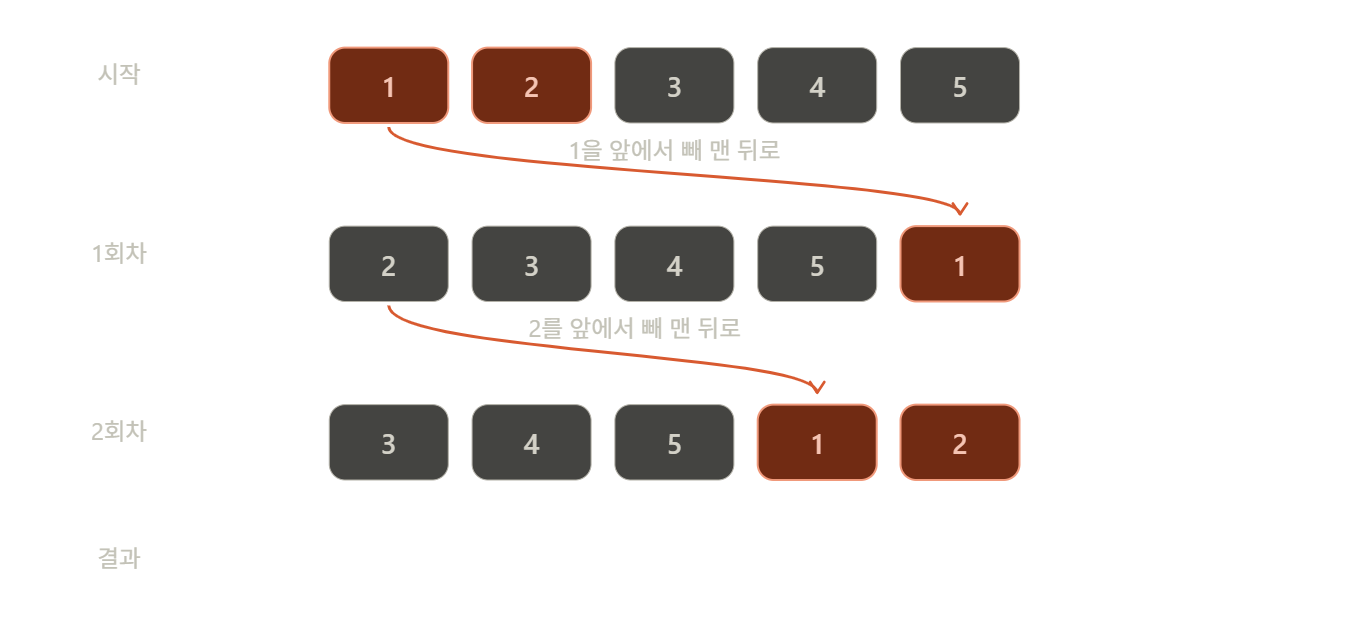
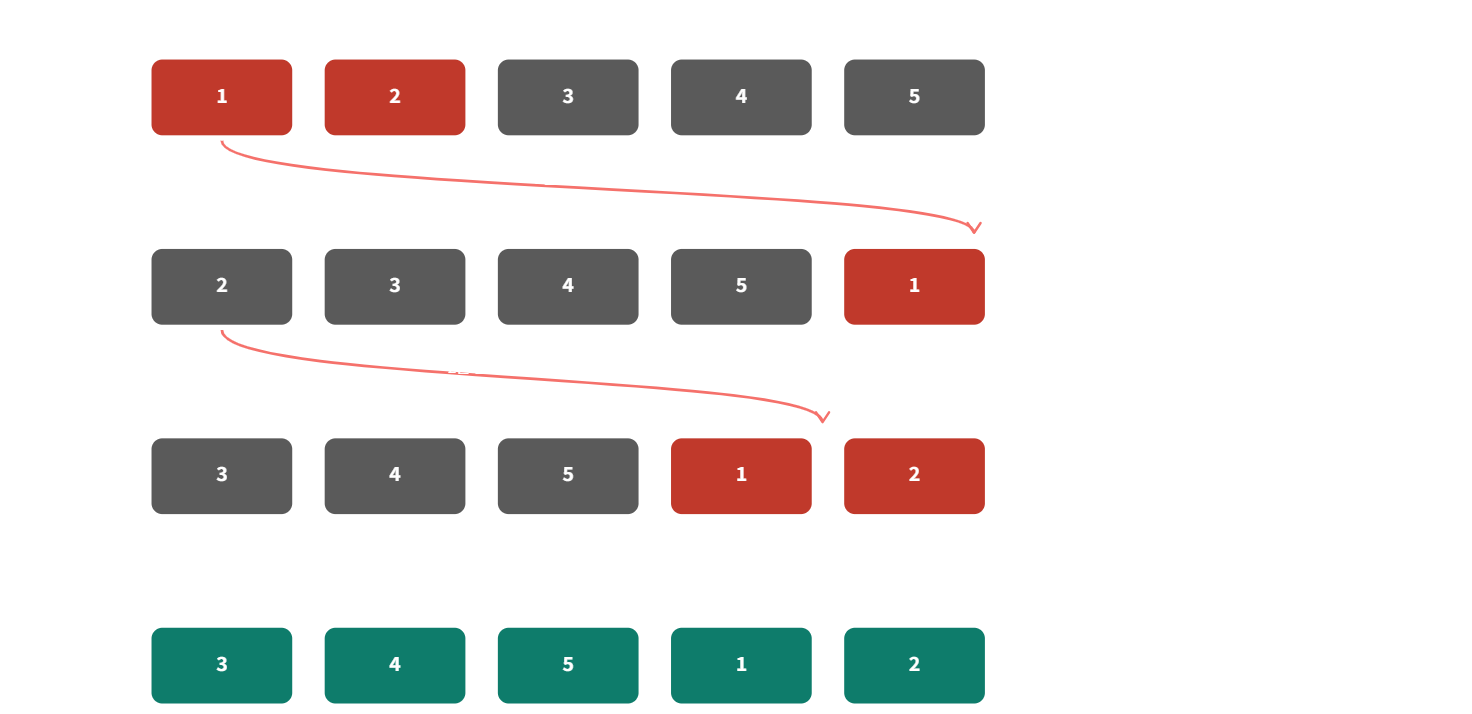
update_post

Changed region(s): [[0.0623, 0.0599, 0.7789, 0.7792], [0.0623, 0.8691, 0.6855, 0.989]]

diff --git a/_posts/MIT6006/2026-07-07-mit6006-lecture-03.md b/_posts/MIT6006/2026-07-07-mit6006-lecture-03.md
@@ -12,22 +12,27 @@ toc: true
 - 정답 자체보다 "어떻게 접근하고, 왜 그렇게 접근하는가"가 핵심이다.
 - 다루는 주제는 복잡도 감각 잡기, 블랙박스로 시퀀스 연산 구현하기, 덱(deque) 설계, 연결 리스트 뒤집기다.
 
+[한 줄 정리]
+
+- 1 : 복잡도 서열(로그 < 다항식 < 지수 < 팩토리얼)을 감으로 익히고, 공통 인수를 빼내 비교한다.
+- 2 : 주어진 연산만으로 상위 기능을 조립하고, 재귀로 문제를 한 단계씩 줄여나간다.
+- 3 : 두 자료구조의 장점을 합치되, 상환 분석으로 효율을 지킨다.
+- 4 : 제자리 포인터 조작(3-포인터 뒤집기)으로 연결 리스트를 다룬다.
+- 관통 메시지 : 문제를 작은 단위로 쪼개고, 각 조각의 정확성과 비용을 따로 논증하라.
+
 ## 1. 함수 증가율 순서 정렬
 
-- 증가율 서열은 로그 < 다항식 < 지수 < 팩토리얼 순이다.
-  - 로그는 입력이 커져도 거의 자라지 않고, 지수·팩토리얼은 입력이 조금만 커져도 폭발적으로 증가한다.
-- 증가 속도가 같은 함수끼리는 `{ }`로 묶어서 표기한다 (예: `n`과 `n+√n`은 둘 다 Θ(n)).
-- 공통 인수를 빼내 단순화하면 증가율 비교가 훨씬 쉬워진다 (예: `n·log n` vs `n·√n` → `log n` vs `√n` → 앞쪽이 느림).
+- 증가율 서열은 상수 < log n < 다항식(n, n²) < 지수(2ⁿ) < 팩토리얼(n!) 순으로 커진다.
+- 두 함수가 같은 속도로 자랄 때는 하나의 그룹으로 묶어 표기한다.
+- 복잡해 보이는 함수도 공통 인수를 빼내면 증가율을 쉽게 비교할 수 있다 (예: `n·log n` vs `n·√n` → `log n` vs `√n` → 앞쪽이 느림).
 
-| **입력 n** | **log₂n** | **n** | **n²**    | **2ⁿ** |
-| -------- | --------- | ----- | --------- | ------ |
-| **10**       | 약 3       | 10    | 100       | 1,024  |
-| **100**      | 약 7       | 100   | 10,000    | 약 10³⁰ |
-| **1,000**    | 약 10      | 1,000 | 1,000,000 | 천문학적   |
+| 입력 n | log₂n | n | n² | 2ⁿ | n! |
+|---|---|---|---|---|---|
+| 10 | 약 3 | 10 | 100 | 1,024 | 3,628,800 (약 360만) |
+| 100 | 약 7 | 100 | 10,000 | 약 10³⁰ | 약 10¹⁵⁸ |
+| 1,000 | 약 10 | 1,000 | 1,000,000 | 천문학적 | 상상 불가 |
 
-### 1-1. 정렬 규칙: 같은 속도는 묶는다
-
-- 두 함수의 증가 속도가 같다면 하나의 그룹 `{ }`로 표기한다.
+- 두 함수가 같은 속도면 하나의 그룹 `{ }`로 묶어 표기한다.
 
 ```text
 Q. n, √n, n+√n 세 개를 정렬하면?
@@ -36,7 +41,7 @@ Q. n, √n, n+√n 세 개를 정렬하면?
     - 결과: √n < {n, n+√n}
 ```
 
-### 1-2. 실전 접근법: 공통 인수 빼내기
+- 공통 인수 빼내기
 
 ```text
 Q. n·log n 과 n·√n 중 뭐가 빠를까?
@@ -47,10 +52,10 @@ Q. n·log n 과 n·√n 중 뭐가 빠를까?
 
 ## 2. 시퀀스 연산을 블랙박스로 구현
 
-- 블랙박스 방식은 외부에 공개된 연산(`insert/delete_first/last`, 모두 O(1))만 사용해서 상위 기능을 조립하는 것이다. delete 연산은 삭제한 값을 반환한다.
-- `swap_ends`: 양 끝 원소를 꺼내서 자리를 바꿔 다시 넣는다 → O(1).
+- 블랙박스는 `insert`, `delete_first`, `delete_last` 등 외부 연산만 사용하며, 모두 O(1)이다. `delete`는 삭제한 값을 반환한다.
+- `swap_ends`는 양 끝 값을 꺼낸 뒤 자리를 바꿔 다시 넣는 방식으로, O(1)에 동작한다.
 
-![swap_ends: 양 끝을 꺼내 반대 자리에 다시 삽입](/assets/img/mit6006/mit6006-03-swap-ends.png){: .normal width="600"}
+![swap_ends: 양 끝 원소를 꺼내 반대 자리에 다시 삽입](/assets/img/mit6006/mit6006-03-swap-ends.png){: .normal width="600"}
 
 ```python
 def swap_ends(D):
@@ -58,9 +63,9 @@ def swap_ends(D):
     D.insert_first(x2); D.insert_last(x1)
 ```
 
-- `shift_left(D, k)`: 맨 앞 원소 하나를 뒤로 옮기고, 나머지는 k-1짜리 문제로 재귀 호출한다 → O(k).
+- `shift_left(D, k)`: 맨 앞 하나를 뒤로 옮기고, 나머지는 k-1 문제로 재귀 호출한다 → O(k).
 
-![shift_left: 맨 앞 원소를 하나씩 뒤로 옮기는 과정](/assets/img/mit6006/mit6006-03-shift-left.png){: .normal width="600"}
+![shift_left: 맨 앞 원소를 하나씩 뒤로 옮기는 과정](/assets/img/mit6006/mit6006-03-shift-left.png){: .normal width="700"}
 
 ```python
 def shift_left(D, k):
@@ -73,32 +78,49 @@ def shift_left(D, k):
 
 ## 3. 동적 배열 → 양쪽 끝이 빠른 덱(Deque)
 
-[각 자료구조의 한계]
-- 
+- 우리가 원하는 건 다음 세 가지를 동시에 잘하는 자료구조다.
+  - 중간 아무 데나 바로 읽기 (예: "5번째 항목 뭐야?")
+  - 맨 앞에 넣고 빼기
+  - 맨 뒤에 넣고 빼기
+- 문제는 기존 자료구조들이 이 중 일부만 잘한다는 것이다.
+  - 동적 배열은 앞쪽이 느리다 (앞에 끼우면 뒤를 다 밀어야 함).
+  - 연결 리스트는 조회가 느리다 (몇 번째인지 세면서 따라가야 함).
+- 우리가 원하는 건 결함이 하나도 없는 자료구조이며, 그게 바로 덱(deque)이다.
+- 상환(amortized)이란, 가끔 한 번 비싼 작업이 있어도 그 전에 값싼 작업을 충분히 많이 했다면 평균적으로는 싸다는 개념이다.
 
+### 3-1. 양쪽에 여유 공간 미리 만들기
 
-- 한계: 동적 배열은 앞쪽 삽입·삭제가 O(n)이고, 연결 리스트는 임의 위치 조회가 O(n)이다.
-- 목표: 조회는 O(1), 양쪽 끝 삽입·삭제는 O(1) 상환(amortized)에 도달하는 것.
-- 상환 O(1): 개별 연산이 가끔 비싸더라도 여러 번 반복했을 때 평균을 내면 O(1)이 되는 것 (예: 리스트의 `append`).
-  - 성립 조건: 비싼 연산이 한 번 일어나기 전에 그만큼의 값싼 연산이 쌓여 있어야 한다.
-- 접근 1: 동적 배열의 양쪽 끝에 여유 공간을 두고 확장하며, 축소할 때도 양쪽에 여유 공간을 남겨둔다.
-- 접근 2: 동적 배열 2개를 등을 맞대듯 배치하고 한쪽은 역순으로 저장한다. 한쪽이 비면 남은 데이터를 반으로 나눠 재분배한다.
+- 동적 배열의 앞쪽 삽입이 느렸던 이유는 밀 공간이 없어서였다. 배열 양쪽에 미리 빈 공간을 만들어두면 앞이든 뒤든 밀지 않고 빈칸에 바로 넣을 수 있고, 이 방식으로 앞쪽 삽입도 O(1)이 된다.
+- 빈칸을 다 쓰면 배열을 더 크게 재생성하면서 양쪽 여유를 다시 채운다. 이 재생성은 가끔 발생하는 비싼 작업이지만, 상환 분석으로 보면 평균은 여전히 저렴하다.
+- 삭제로 배열이 텅 비어 크기를 줄일 때도 딱 맞게 줄이면 안 된다. 딱 맞게 줄이면 삽입·삭제가 반복될 때마다 늘렸다 줄였다를 반복하며 낭비가 생기므로, 줄일 때도 양쪽에 여유를 남긴다.
+- 요약: 양쪽에 빈칸을 미리 만들어두고, 꽉 차면 상환 방식으로 다시 확장한다.
+
+![동적 배열 양쪽에 여유 공간을 미리 확보해두는 방식](/assets/img/mit6006/mit6006-03-deque-front-back-space.png){: .normal width="600"}
+
+### 3-2. 리스트 두 개를 등 맞대기 (한쪽은 뒤집어서)
+
+- 접근 1처럼 배열을 직접 구현하지 않고, 이미 있는 파이썬 리스트(동적 배열) 두 개를 조합해 덱을 만드는 방법이다.
+- 파이썬 리스트는 끝(뒤)에서의 삽입·삭제(`append`/`pop`)는 빠르지만 앞에서는 느리다. 그래서 두 리스트 모두 "빠른 끝"만 쓰도록 구성한다.
+  - `back` 리스트: 시퀀스 뒷부분을 그대로 저장한다. `back.pop()` → 시퀀스 맨 뒤 원소.
+  - `front` 리스트: 시퀀스 앞부분을 뒤집어서 저장한다. 예를 들어 시퀀스가 `A B C D`면 `front`에는 `B A` 순으로 저장된다.
+  - 이렇게 하면 시퀀스 맨 앞 원소가 리스트의 "끝"에 오게 되어 `front.pop()` → 시퀀스 맨 앞 원소가 된다.
+- 양쪽 다 리스트의 빠른 끝(`pop`/`append`)만 쓰므로 앞/뒤 삽입·삭제 모두 O(1)이다.
+- 문제는 한쪽 리스트가 완전히 비었을 때다. 예를 들어 `front`가 비었는데 앞에서 또 빼야 하면, `back`의 앞부분(느린 쪽)을 건드려야 하는 상황이 생긴다.
+- 해결책은 `_rebalance`: 한쪽이 비면 남은 원소를 모아 양쪽에 반씩 다시 나눠 담는다.
+- 이 재조정은 한 번에 O(n)이 걸리지만, 여기까지 오는 동안 값싼 연산을 충분히 쌓았으므로 상환 분석상 평균은 여전히 O(1)이다.
+- 요약: 리스트 두 개를 등 맞대고 앞쪽은 뒤집어 저장해 양쪽 다 빠른 끝만 사용하며, 한쪽이 비면 반씩 재분배해 평균 O(1)을 유지한다.
+
+![리스트 두 개를 등 맞대어 앞쪽은 뒤집어 저장하는 방식](/assets/img/mit6006/mit6006-03-deque-two-lists.png){: .normal width="600"}
 
 ## 4. 연결 리스트 뒤집기 (Reorder Students)
 
-- 할 일: 리스트 뒤쪽 n개 노드를 새 노드 없이 제자리에서 뒤집는다 (`next` 포인터만 조작).
-- 직관: 손을 잡고 줄 서 있는 사람들이 앞사람 대신 뒷사람의 어깨로 손을 옮겨 잡는 것과 같다.
-  - 손을 놓기 전에 원래 앞사람(`x_next`)을 먼저 기억해둬야 길을 잃지 않는다 — 이 부분이 가장 중요하다.
-- 포인터 3개: `x`(나) / `x_prev`(뒷사람) / `x_next`(앞사람).
-- 3단계로 진행한다: ① 뒤집을 구간의 경계 찾기 → ② 포인터 방향을 하나씩 뒤집기(반복) → ③ 양 끝을 다시 연결해 매듭 정리하기 (`a.next=c`, `b.next=None`).
+- 마지막 n개 노드를 제자리에서 뒤집는 문제다.
+- 새 노드를 만들지 않고 `next`만 조작해 뒤쪽 n개 노드를 뒤집는다.
+- 손을 잡고 줄 서 있는 사람들이 앞사람 대신 뒷사람의 어깨로 손을 옮겨 잡는 것과 같은데, 손을 놓기 전에 원래 앞사람(`x_next`)을 먼저 기억해둬야 길을 잃지 않는다.
+- 포인터는 세 개다: `x`(나), `x_prev`(뒷사람), `x_next`(앞사람).
+- 진행은 3단계다.
+  - ① 뒤집을 구간 바로 앞의 고정 노드 `a`(경계)를 찾는다.
+  - ② `x`, `x_prev`, `x_next`를 한 칸씩 옮기며 각 노드의 `next`를 반대로 돌리는 걸 반복한다.
+  - ③ 매듭을 정리한다 — 경계 `a`의 `next`를 새 머리 `c`로 연결하고(`a.next=c`), 원래 구간 시작이던 `b`는 이제 꼬리이므로 `next`를 `None`으로 만든다(`b.next=None`).
 
-![연결 리스트 뒤집기: x_next를 먼저 기억한 뒤 x.next를 x_prev로 되돌리기](/assets/img/mit6006/mit6006-03-linked-list-reverse.png){: .normal width="500"}
-
-## 5. 한 줄 정리 (알고리즘 관점)
-
-- 1 : 복잡도 서열(로그 < 다항식 < 지수 < 팩토리얼)을 감으로 익히고, 공통 인수를 빼내 비교한다.
-- 2 : 주어진 연산만으로 상위 기능을 조립하고, 재귀로 문제를 한 단계씩 줄여나간다.
-- 3 : 두 자료구조의 장점을 합치되, 상환 분석으로 효율을 지킨다.
-- 4 : 제자리 포인터 조작(3-포인터 뒤집기)으로 연결 리스트를 다룬다.
-
-- 관통 메시지: 문제를 작은 단위로 쪼개고, 각 조각의 정확성과 비용을 따로 논증하라.
+![연결 리스트 뒤집기: x_prev/x/x_next 세 포인터로 next를 하나씩 반대로 돌리기](/assets/img/mit6006/mit6006-03-linked-list-reverse.png){: .normal width="700"}